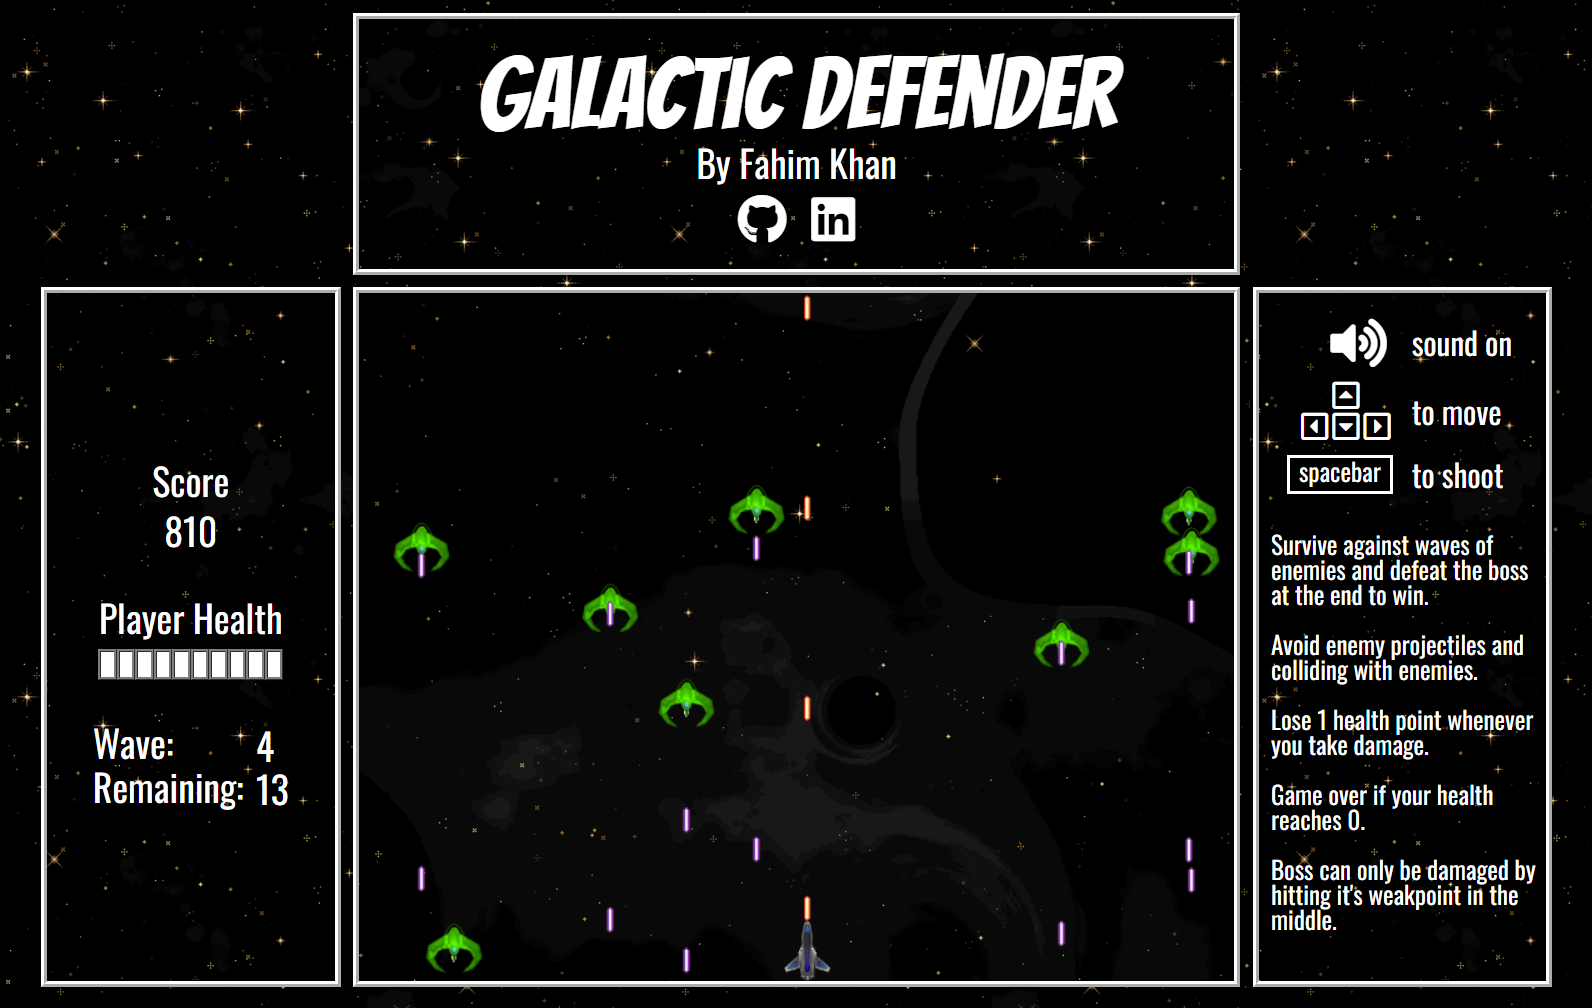
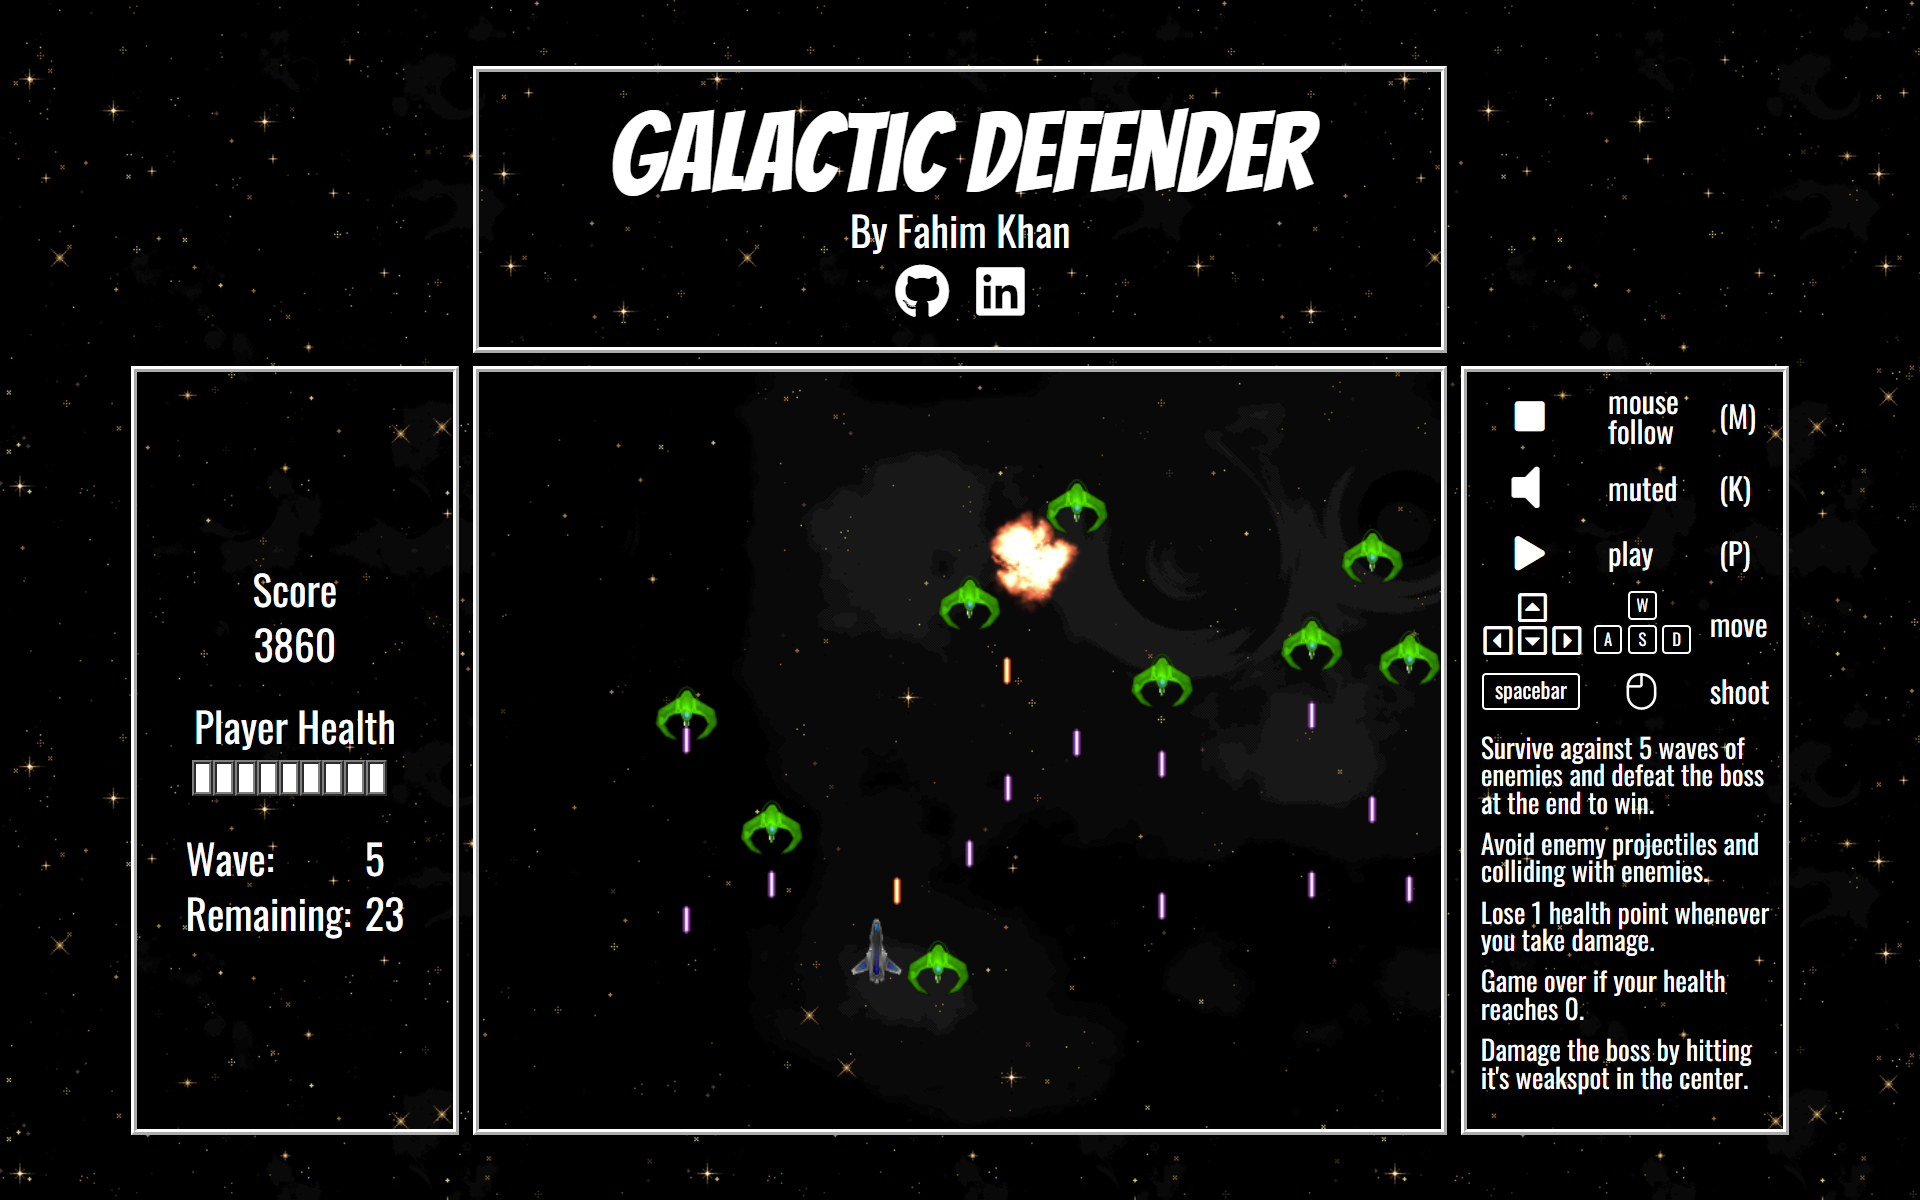
readme update

diff --git a/README.md b/README.md
@@ -12,11 +12,11 @@ Galactic Defender is a galaxy shooter game, based off the classic [Space Invader
 
 In Galactic Defender the player's goal is to survive waves of enemies.
 
-![enemy wave screenshot](./src/assets/screenshots/enemy_wave.png)
+<img src="./src/assets/screenshots/enemy_wave.png" height="500">
 
 ...and defeat the boss at the end.
 
-![boss fight screenshot](./src/assets/screenshots/boss_fight.png)
+<img src="./src/assets/screenshots/boss_fight.png" height="500">
 
 It's game over if the player loses all their health points (HP) before defeating the boss. Enemies also have their own HP that must be depleted to be destroyed, with scaling difficulty.
 
@@ -24,9 +24,14 @@ It's game over if the player loses all their health points (HP) before defeating
 
 ___
 
-Controls are simply arrow keys (or WASD) to move in any direction, spacebar (or left click) to shoot (can be held down to continously shoot), and a clickable toggle mute button.
+Controls are simply arrow keys (or WASD) to move in any direction, spacebar (or left click) to shoot (can be held down to continously shoot).
 
-![instructions screenshot](./src/assets/screenshots/game_instructions.png)
+Setting options include a toggle mute, pause, and mouse/touch follow mode.
+
+The player ship will automatically follow a mouse or touch point if follow mode is enabled.
+Touch follow is automatically enabled at the start if a touch screen device is detected.
+
+<img src="./src/assets/screenshots/controls.png" height="500">
 
 ## Functionality & MVPs
 
